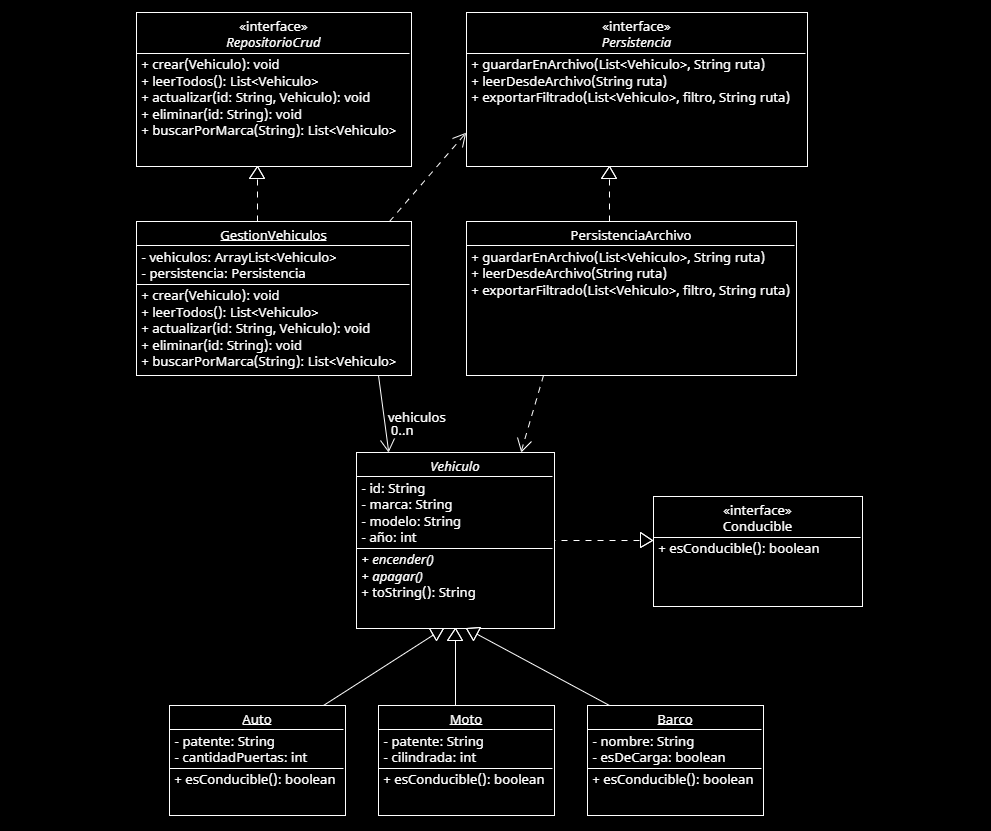
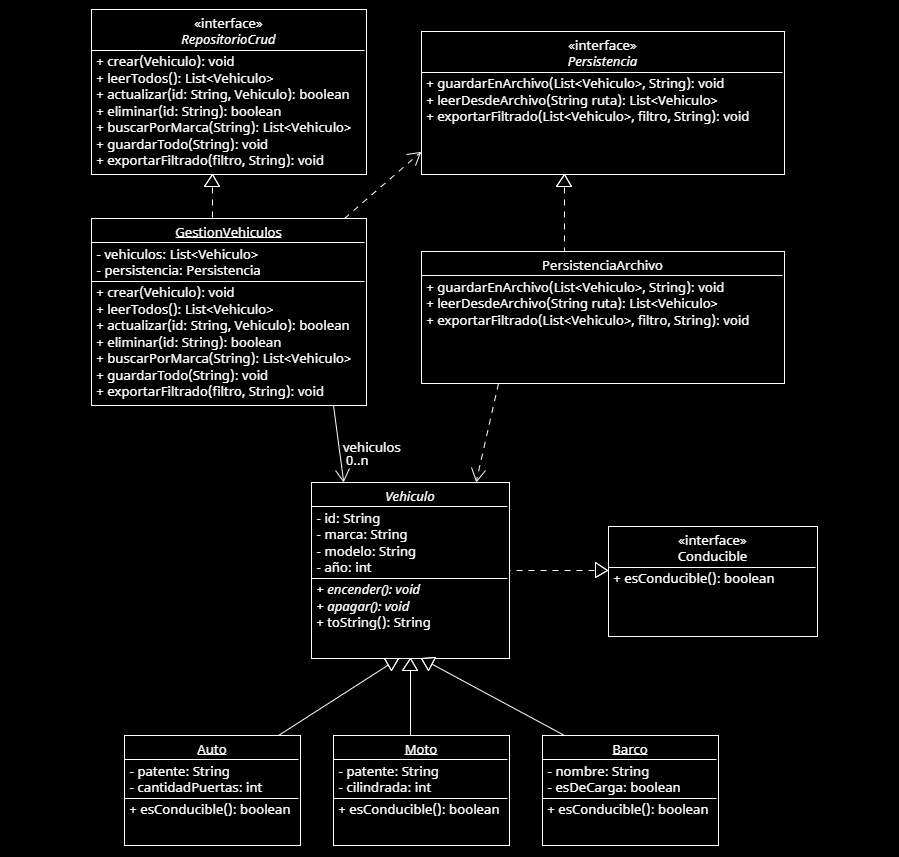
fix: vehicleManager refactor for persistence

diff --git a/finalProgramacionII/src/finalprogramacionii/FinalProgramacionII.java b/finalProgramacionII/src/finalprogramacionii/FinalProgramacionII.java
@@ -52,12 +52,12 @@ public class FinalProgramacionII {
         System.out.println("-- Exportaciones --");        
         // Exportar todos los vehículos a un txt
         String rutaGeneral = "data/vehiculos_todos.txt";
-        persistencia.guardarEnArchivo(sistema.leerTodos(), rutaGeneral);
+        sistema.guardarTodo(rutaGeneral);
         
         // Exportar solo los que son instancias de AUTO a un txt filtrando con el test del Predicate
         Predicate<Vehiculo> filtroAutos = v -> v instanceof Auto;
         String rutaFiltrada = "data/vehiculos_filtrados.txt";
-        persistencia.exportarFiltrado(sistema.leerTodos(), filtroAutos, rutaFiltrada);
+        sistema.exportarFiltrado(filtroAutos, rutaFiltrada);
 
         System.out.println("-------------");
         System.out.println("-- Finalizando proyecto --");

diff --git a/finalProgramacionII/src/finalprogramacionii/GestionVehiculos.java b/finalProgramacionII/src/finalprogramacionii/GestionVehiculos.java
@@ -1,6 +1,7 @@
 package finalprogramacionii;
 import java.util.ArrayList;
 import java.util.List;
+import java.util.function.Predicate;
 
 /**
  *
@@ -84,6 +85,16 @@ public class GestionVehiculos implements RepositorioCrud<Vehiculo> {
         }
         // Retornamos el resultado aunque no haya coincidencia, en ese caso sera una lista vacia
         return resultado;
+    }
+    
+    @Override
+    public void guardarTodo(String ruta) {
+        persistencia.guardarEnArchivo(vehiculos, ruta);
+    }
+    
+    @Override
+    public void exportarFiltrado(Predicate<Vehiculo> filtro, String ruta) {
+        persistencia.exportarFiltrado(vehiculos, filtro, ruta);
     }
 
     public List<Vehiculo> getVehiculos() {

diff --git a/finalProgramacionII/src/finalprogramacionii/Persistencia.java b/finalProgramacionII/src/finalprogramacionii/Persistencia.java
@@ -11,6 +11,6 @@ public interface Persistencia {
     // Metodos de Persistencia de los datos
     void guardarEnArchivo(List<Vehiculo> vehiculos, String ruta);
     List<Vehiculo> leerDesdeArchivo(String ruta);
-    // El Predicate permite pasar una condición lambda como filtro para la exportación
+    // El Predicate permite pasar un test como filtro para la exportación
     void exportarFiltrado(List<Vehiculo> vehiculos, Predicate<Vehiculo> filtro, String ruta);
 }

diff --git a/finalProgramacionII/src/finalprogramacionii/RepositorioCrud.java b/finalProgramacionII/src/finalprogramacionii/RepositorioCrud.java
@@ -1,5 +1,6 @@
 package finalprogramacionii;
 import java.util.List;
+import java.util.function.Predicate;
 
 /**
  *
@@ -12,4 +13,6 @@ public interface RepositorioCrud<T> {
     boolean actualizar(String id, T nuevoObjeto);
     boolean eliminar(String id);
     List<T> buscarPorMarca(String marca);
+    void guardarTodo(String ruta);
+    void exportarFiltrado(Predicate<Vehiculo> filtro, String ruta);
 }
